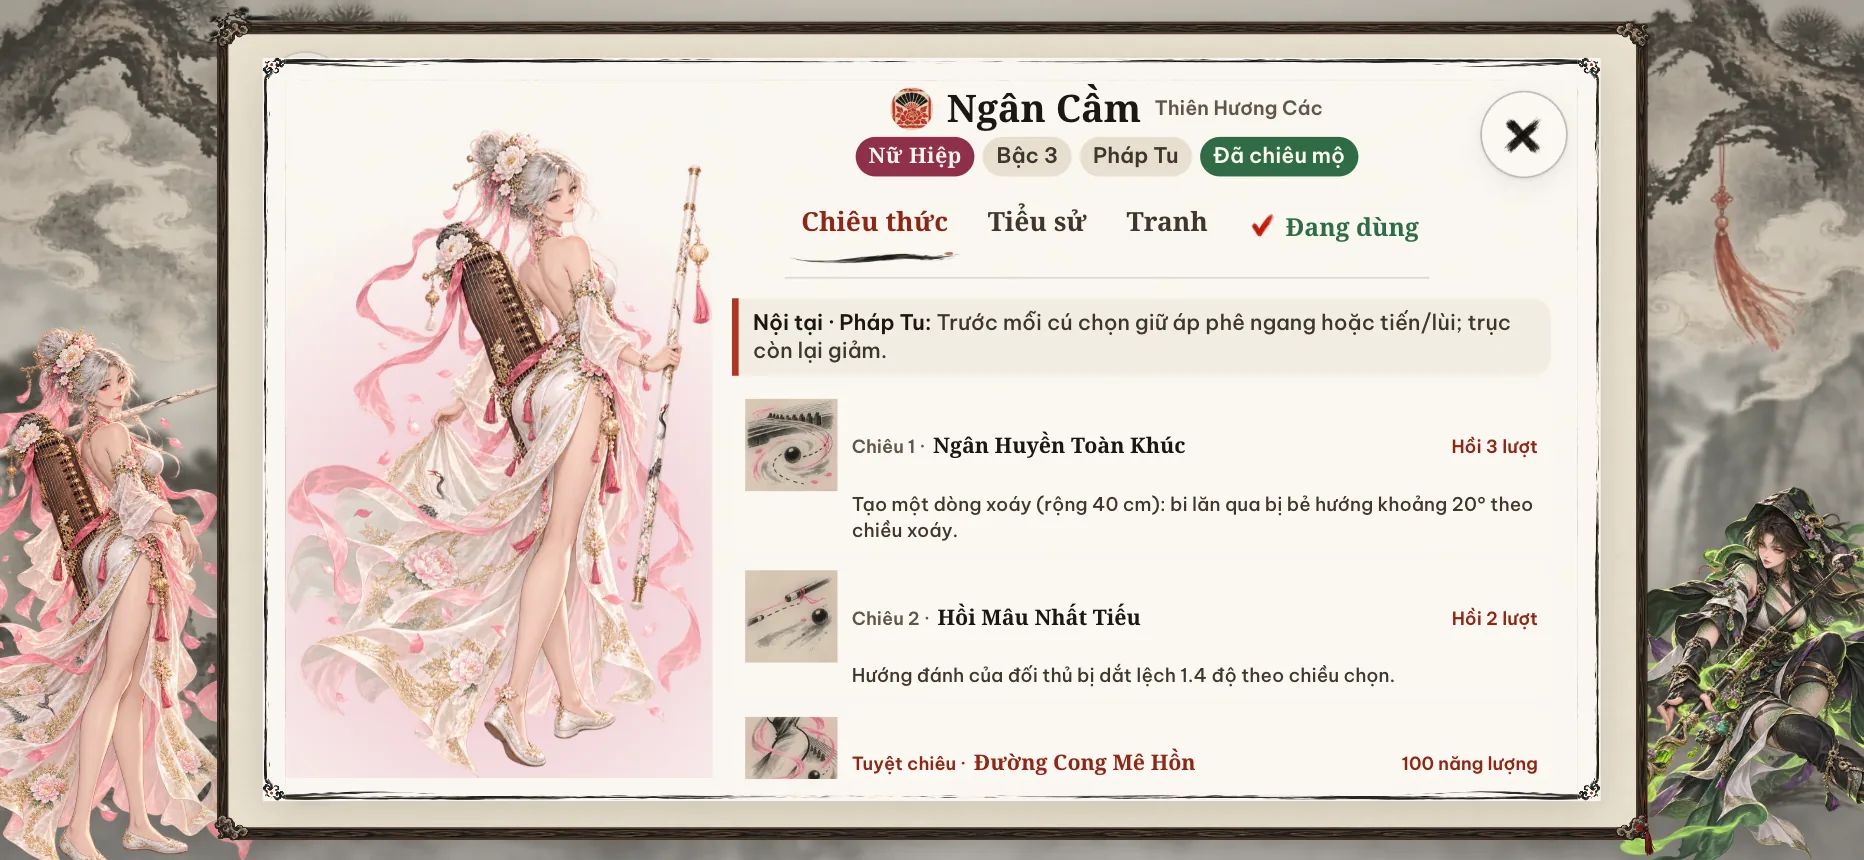
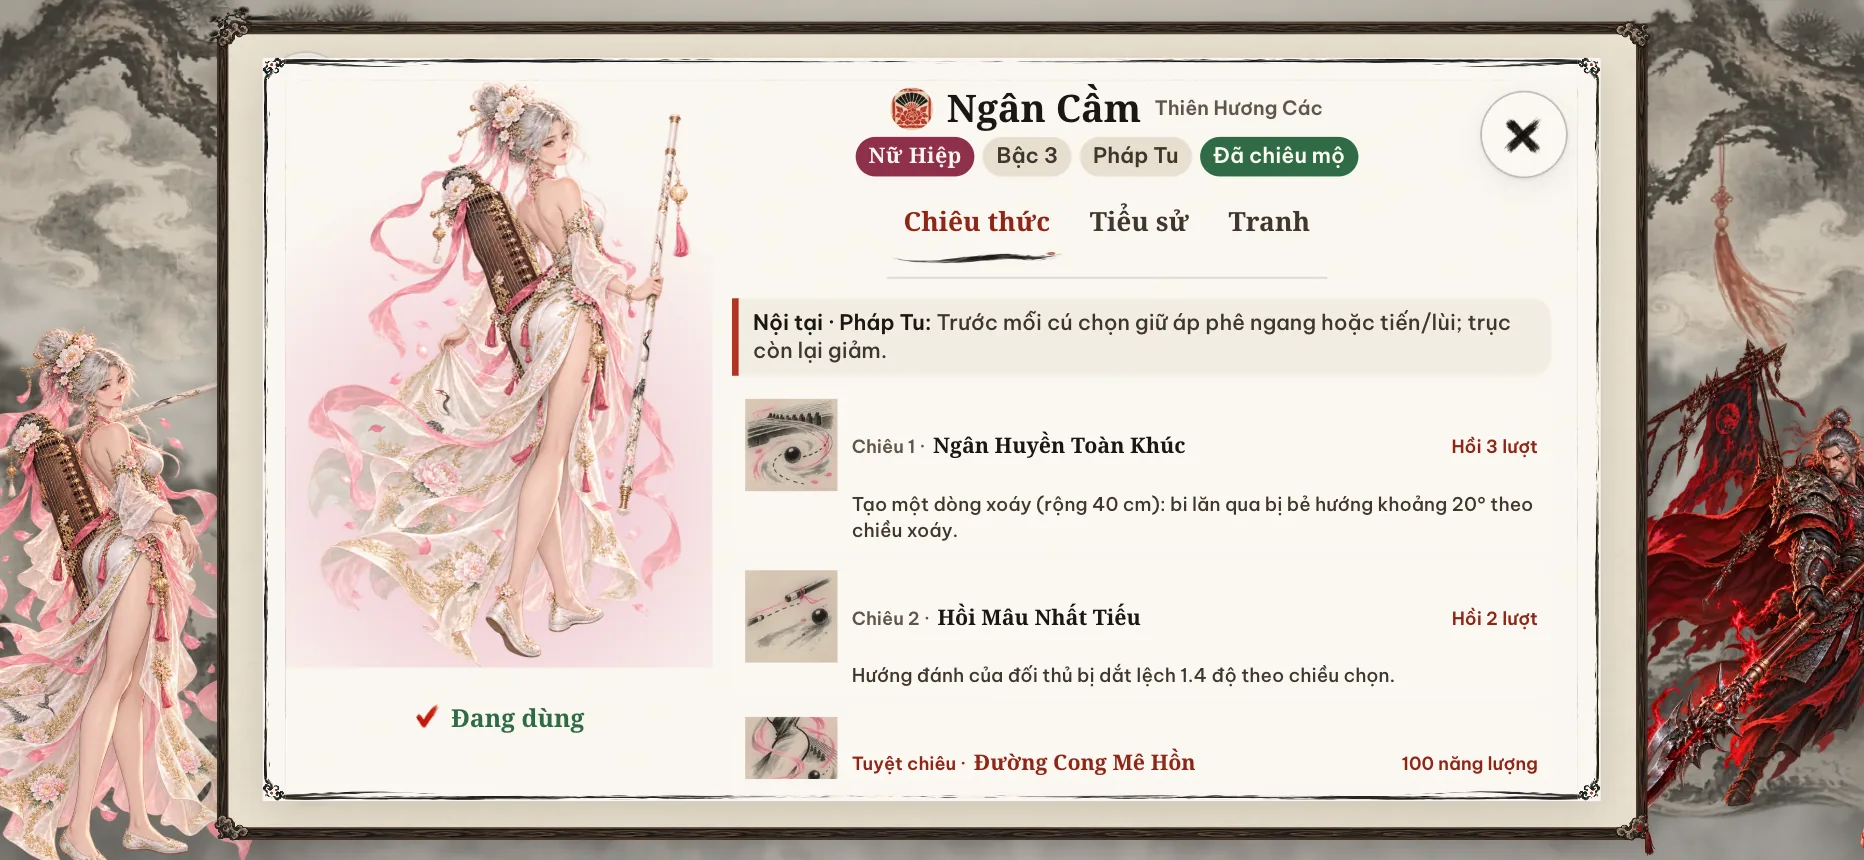
docs: retake the champion page screenshot

diff --git a/README.md b/README.md
@@ -59,7 +59,7 @@ Chụp ở 932×430, tướng của người chơi là Ngân Cầm.
 | **Luyện thế · chọn thế** | **Luyện thế · Đường đi** |
 | ![Chọn thế luyện](docs/screenshots/luyen-the-chon.webp) | ![Bàn Luyện thế với đường đi của mọi bi](docs/screenshots/luyen-the.webp) |
 | **Tàng Các** | **Trang tướng** |
-| ![Tàng Các](docs/screenshots/tang-cac.webp) | ![Trang tướng: ba icon chiêu, mục Tiểu sử và Tranh](docs/screenshots/trang-tuong.webp) |
+| ![Tàng Các](docs/screenshots/tang-cac.webp) | ![Trang tướng: ba chiêu, mục Tiểu sử và Tranh, nút chọn tướng dưới tranh](docs/screenshots/trang-tuong.webp) |
 | **Trang môn phái** | **Cơ Tiên Truyện** |
 | ![Trang môn phái trong Tàng Các](docs/screenshots/mon-phai.webp) | ![Đọc Cơ Tiên Truyện](docs/screenshots/co-tien-truyen.webp) |
 
